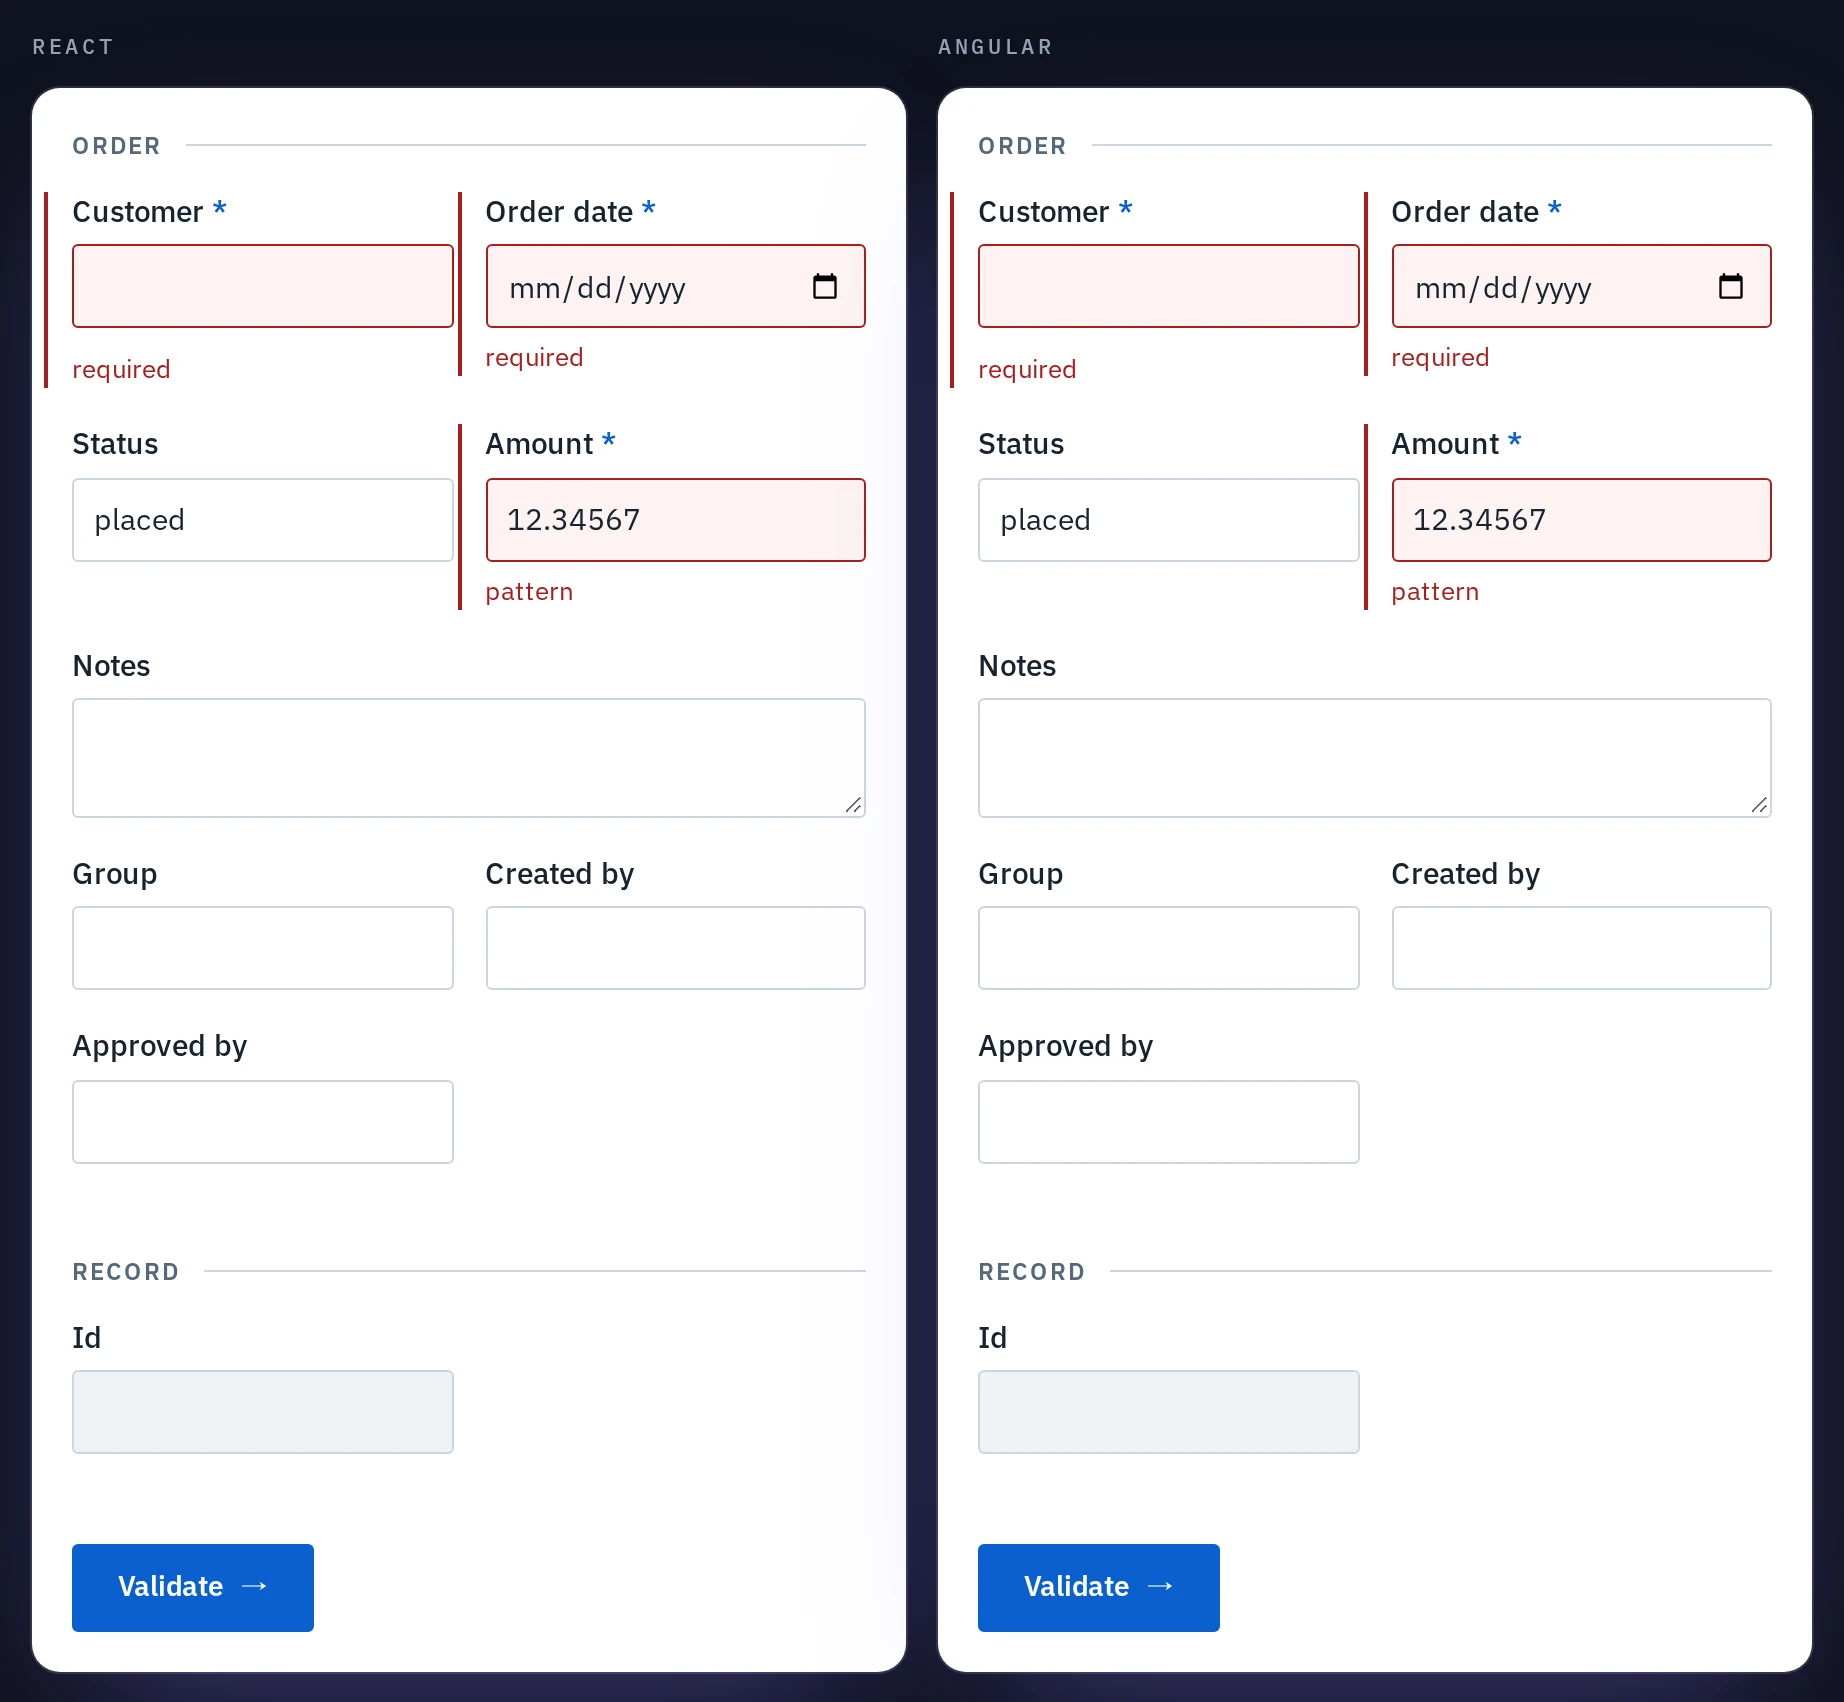
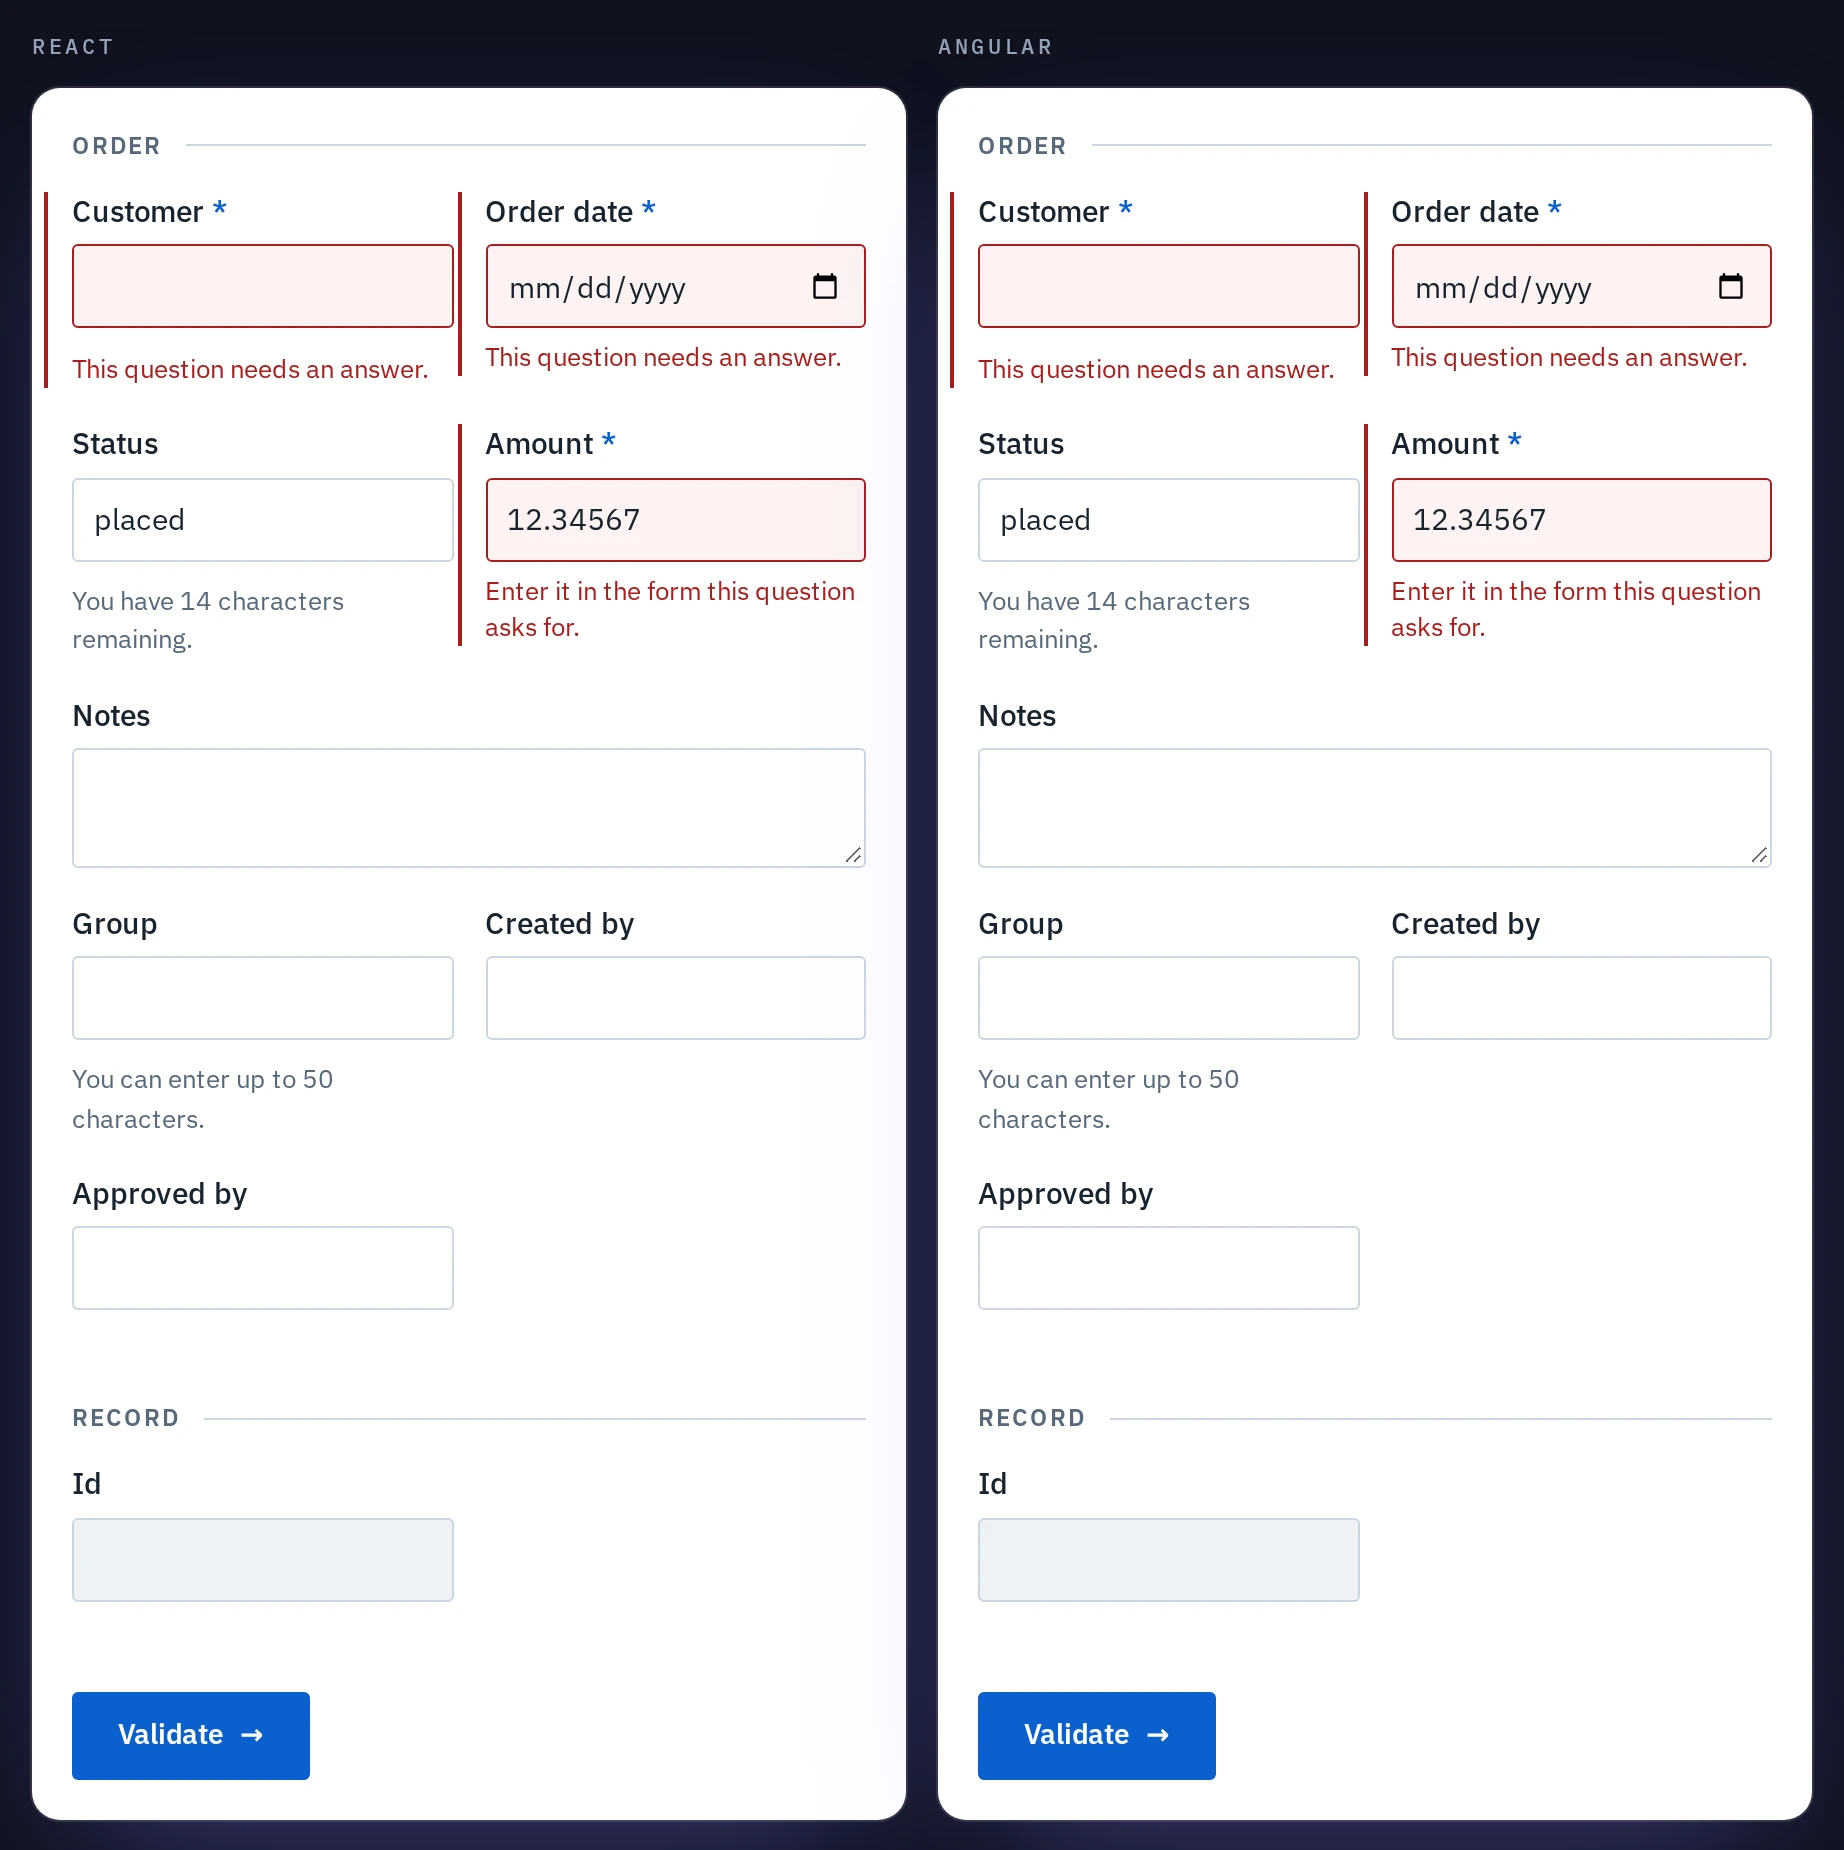
The README's pictures, retaken on 0.11.0 on CI's runner

diff --git a/CHANGELOG.md b/CHANGELOG.md
@@ -358,6 +358,13 @@ later.
     an empty choice that takes an answer back to "unknown", still holds.
   - **The studio's review tests read its own status line**, not the
     paper's: a draft's paper now holds a status region per counted field.
+  - **The README's pictures were retaken on 0.11.0**, every one, on CI's
+    runner, the look they are recorded in: seventeen now show the counts
+    and the sentences, and six came back byte-identical. The examples
+    picture's caption quotes the sentences rather than the codes. A
+    picture's act types into a form's field through `fillField`, which
+    waits for the count to be said, since the camera refused a picture
+    whose count spoke a second after it was taken.
     Upstream `@formancy/*` 0.7.0 → 0.11.0.
 - **Every `@formancy/*` dependency moves from 0.6.0 to 0.7.0, upstream's
   release of 2026-10-21, adopted the day after it was published, and
